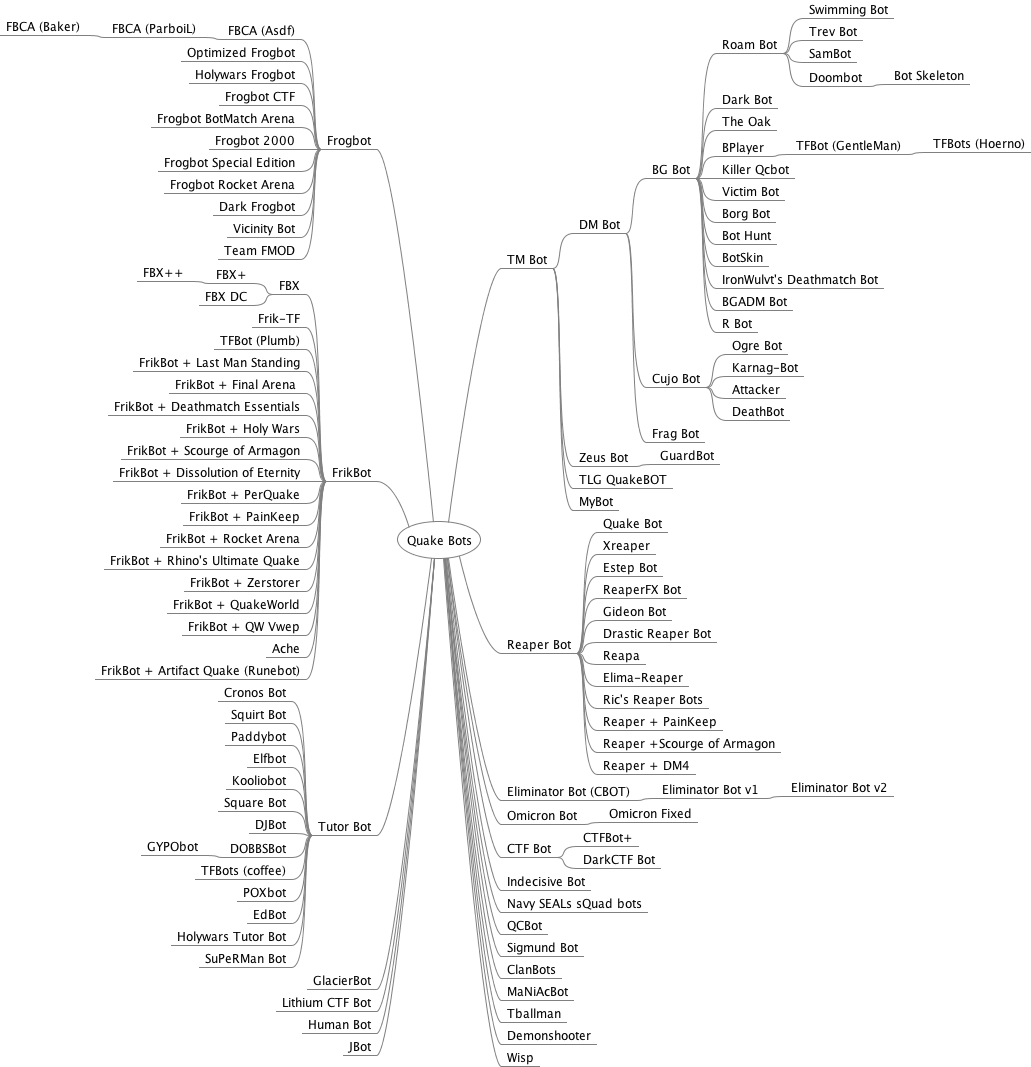
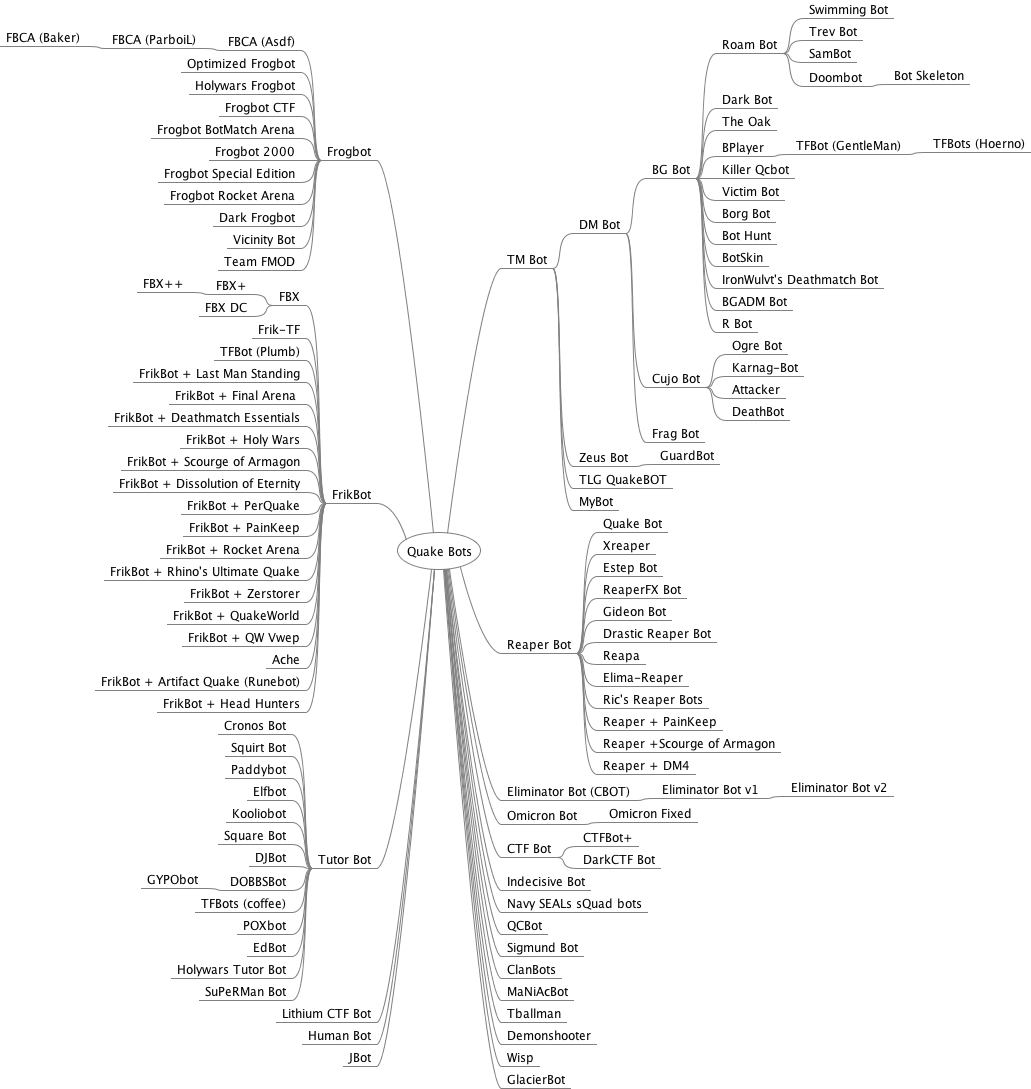
added FrikBot + Head Hunters

diff --git a/mindmap/QuakeBots.mm b/mindmap/QuakeBots.mm
@@ -85,7 +85,7 @@
 <node CREATED="1623200460502" ID="ID_270569228" MODIFIED="1623200461779" TEXT="Vicinity Bot"/>
 <node CREATED="1623200465200" ID="ID_139430550" MODIFIED="1623200466393" TEXT="Team FMOD"/>
 </node>
-<node CREATED="1622514879263" ID="ID_981472223" MODIFIED="1624060079730" POSITION="left" TEXT="FrikBot">
+<node CREATED="1622514879263" ID="ID_981472223" MODIFIED="1624061197021" POSITION="left" TEXT="FrikBot">
 <node CREATED="1622840413966" ID="ID_534018268" MODIFIED="1623012543935" TEXT="FBX">
 <node CREATED="1622840422605" ID="ID_1263048651" MODIFIED="1623012537573" TEXT="FBX+">
 <node CREATED="1622840424022" ID="ID_738003569" MODIFIED="1623012528393" TEXT="FBX++"/>
@@ -109,6 +109,7 @@
 <node CREATED="1624060190053" ID="ID_1202195998" MODIFIED="1624060191132" TEXT="FrikBot + QW Vwep"/>
 <node CREATED="1624060337290" ID="ID_1985148259" MODIFIED="1624060337903" TEXT="Ache"/>
 <node CREATED="1624060933063" ID="ID_1756640048" MODIFIED="1624060933881" TEXT="FrikBot + Artifact Quake (Runebot)"/>
+<node CREATED="1624061197398" ID="ID_476609872" MODIFIED="1624061198080" TEXT="FrikBot + Head Hunters"/>
 </node>
 <node CREATED="1622514794312" ID="ID_565546253" MODIFIED="1622671396799" POSITION="left" TEXT="Tutor Bot">
 <node CREATED="1622514804704" ID="ID_11024833" MODIFIED="1622514812370" TEXT="Cronos Bot"/>
@@ -136,9 +137,9 @@
 <node CREATED="1622768965834" ID="ID_724353793" MODIFIED="1622768966954" POSITION="right" TEXT="Tballman"/>
 <node CREATED="1622929540892" ID="ID_927745678" MODIFIED="1622929541844" POSITION="right" TEXT="Demonshooter"/>
 <node CREATED="1622929965131" ID="ID_652083117" MODIFIED="1622929966278" POSITION="right" TEXT="Wisp"/>
-<node CREATED="1622957861665" ID="ID_11101189" MODIFIED="1622957862633" POSITION="left" TEXT="GlacierBot"/>
 <node CREATED="1623044348917" ID="ID_1450186111" MODIFIED="1623044350633" POSITION="left" TEXT="Lithium CTF Bot"/>
 <node CREATED="1623028654081" ID="ID_1831431959" MODIFIED="1623028655051" POSITION="left" TEXT="Human Bot"/>
 <node CREATED="1623028405586" ID="ID_364088443" MODIFIED="1623028407494" POSITION="left" TEXT="JBot"/>
+<node CREATED="1622957861665" ID="ID_11101189" MODIFIED="1622957862633" POSITION="right" TEXT="GlacierBot"/>
 </node>
 </map>

diff --git a/README.md b/README.md
@@ -51,6 +51,7 @@ FrikBot + Artifact Quake (Runebot) | Chuck Parsons | rnbt3.6.zip<br>[rnbt3.4.zip
 FrikBot + Deathmatch Essentials | Ryan Smith aka "Frika C" | [frikdme.zip](bin/frikdme.zip) (-)
 FrikBot + Dissolution of Eternity | Ryan Smith aka "Frika C" | [frikmp02.zip](bin/frikmp02.zip) (-)
 FrikBot + Final Arena | Ryan Smith aka "Frika C" | [frikfa.zip](bin/frikfa.zip) (-)
+FrikBot + Head Hunters | Chuck Parsons | hhbot.zip
 FrikBot + Holy Wars | Ryan Smith aka "Frika C" | [frikholy.zip](bin/frikholy.zip) (-)
 FrikBot + Last Man Standing | Raymond Martineau | [frik-lms.zip](bin/frik-lms.zip) (-)
 FrikBot + PainKeep | Ryan Smith aka "Frika C" | [frikpk.zip](bin/frikpk.zip) (-)
